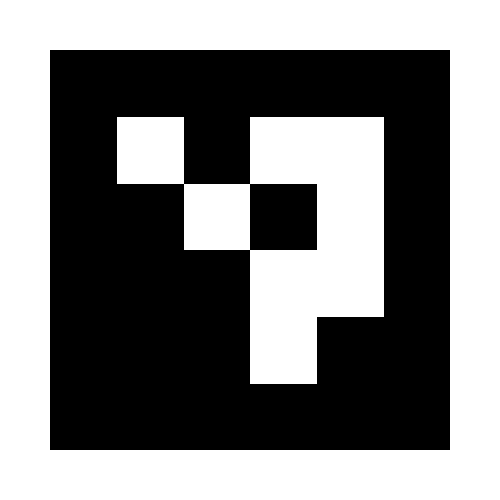
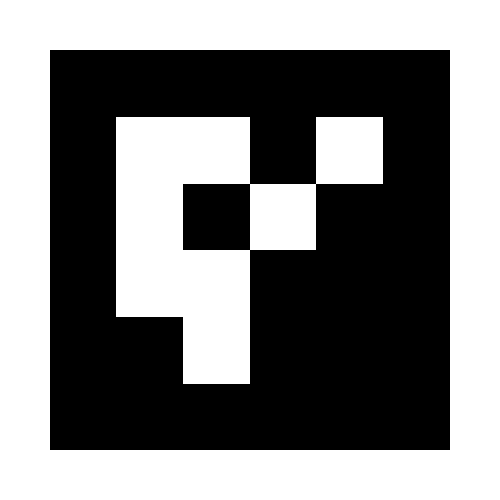
fixes for sensor tests

Changed region(s): [[0.21, 0.21, 0.78, 0.78]]

diff --git a/tools/make_marker.py b/tools/make_marker.py
@@ -5,5 +5,6 @@ dictionary = cv2.aruco.getPredefinedDictionary(cv2.aruco.DICT_4X4_50) #Picks mar
 marker = cv2.aruco.generateImageMarker(dictionary, 0, 400) #Draw marker number 0, 400 pixels wide
 marker = cv2.copyMakeBorder(marker, 50, 50, 50, 50, cv2.BORDER_CONSTANT, value=255) #Add a white frame around it, 50 pixels on each side.
 marker = cv2.cvtColor(marker, cv2.COLOR_GRAY2BGR) #Converts to colour image
+marker = cv2.flip(marker, 1)   # mirror left-right, because MuJoCo flips it back on the box face
 cv2.imwrite("assets/robotis_tb3/aruco_0.png", marker) #Saves picture into same folder as world file, so world can find it
 print("Saved assets/robotis_tb3/aruco_0.png") #Print that its saved.
